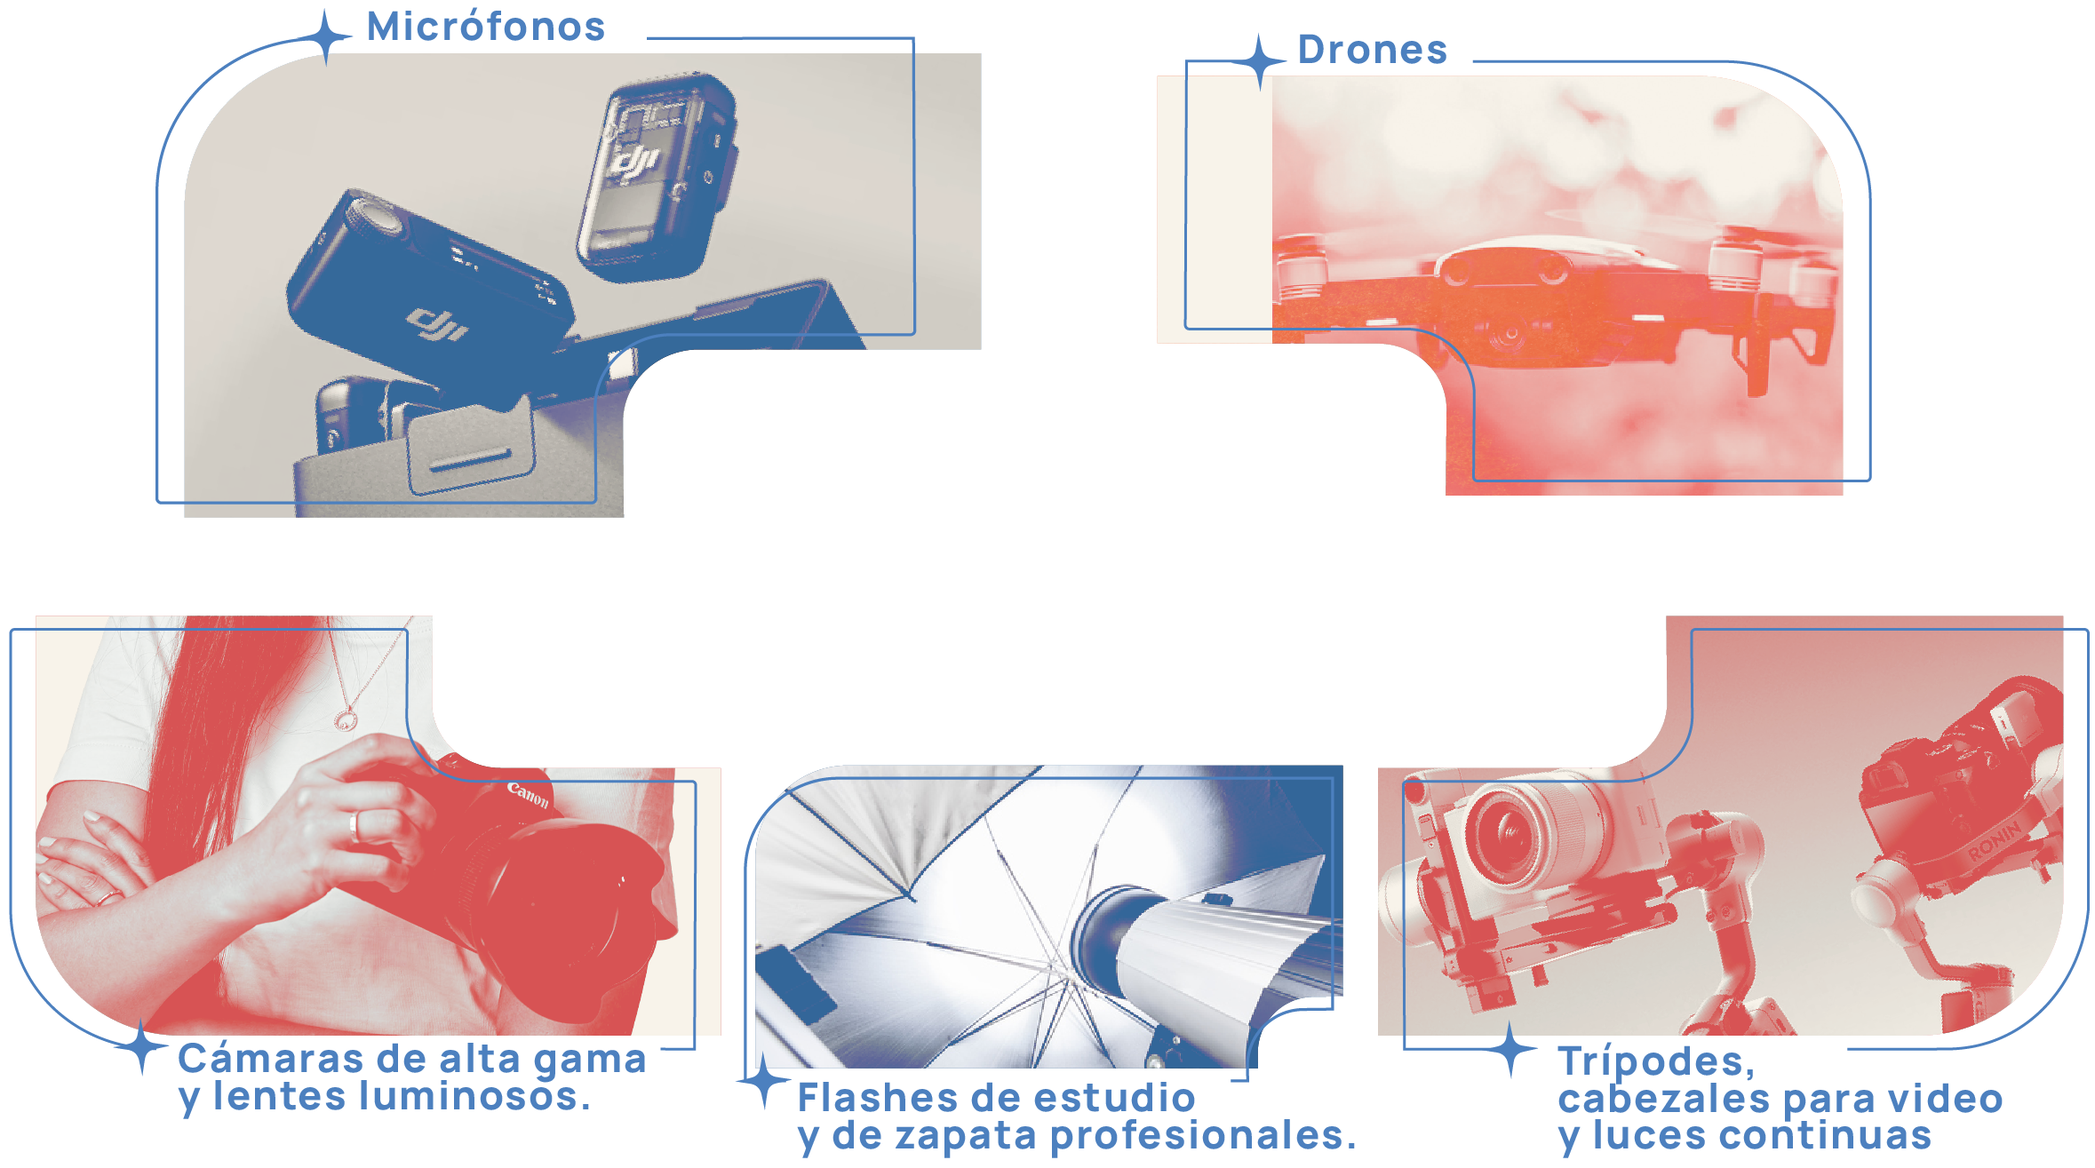
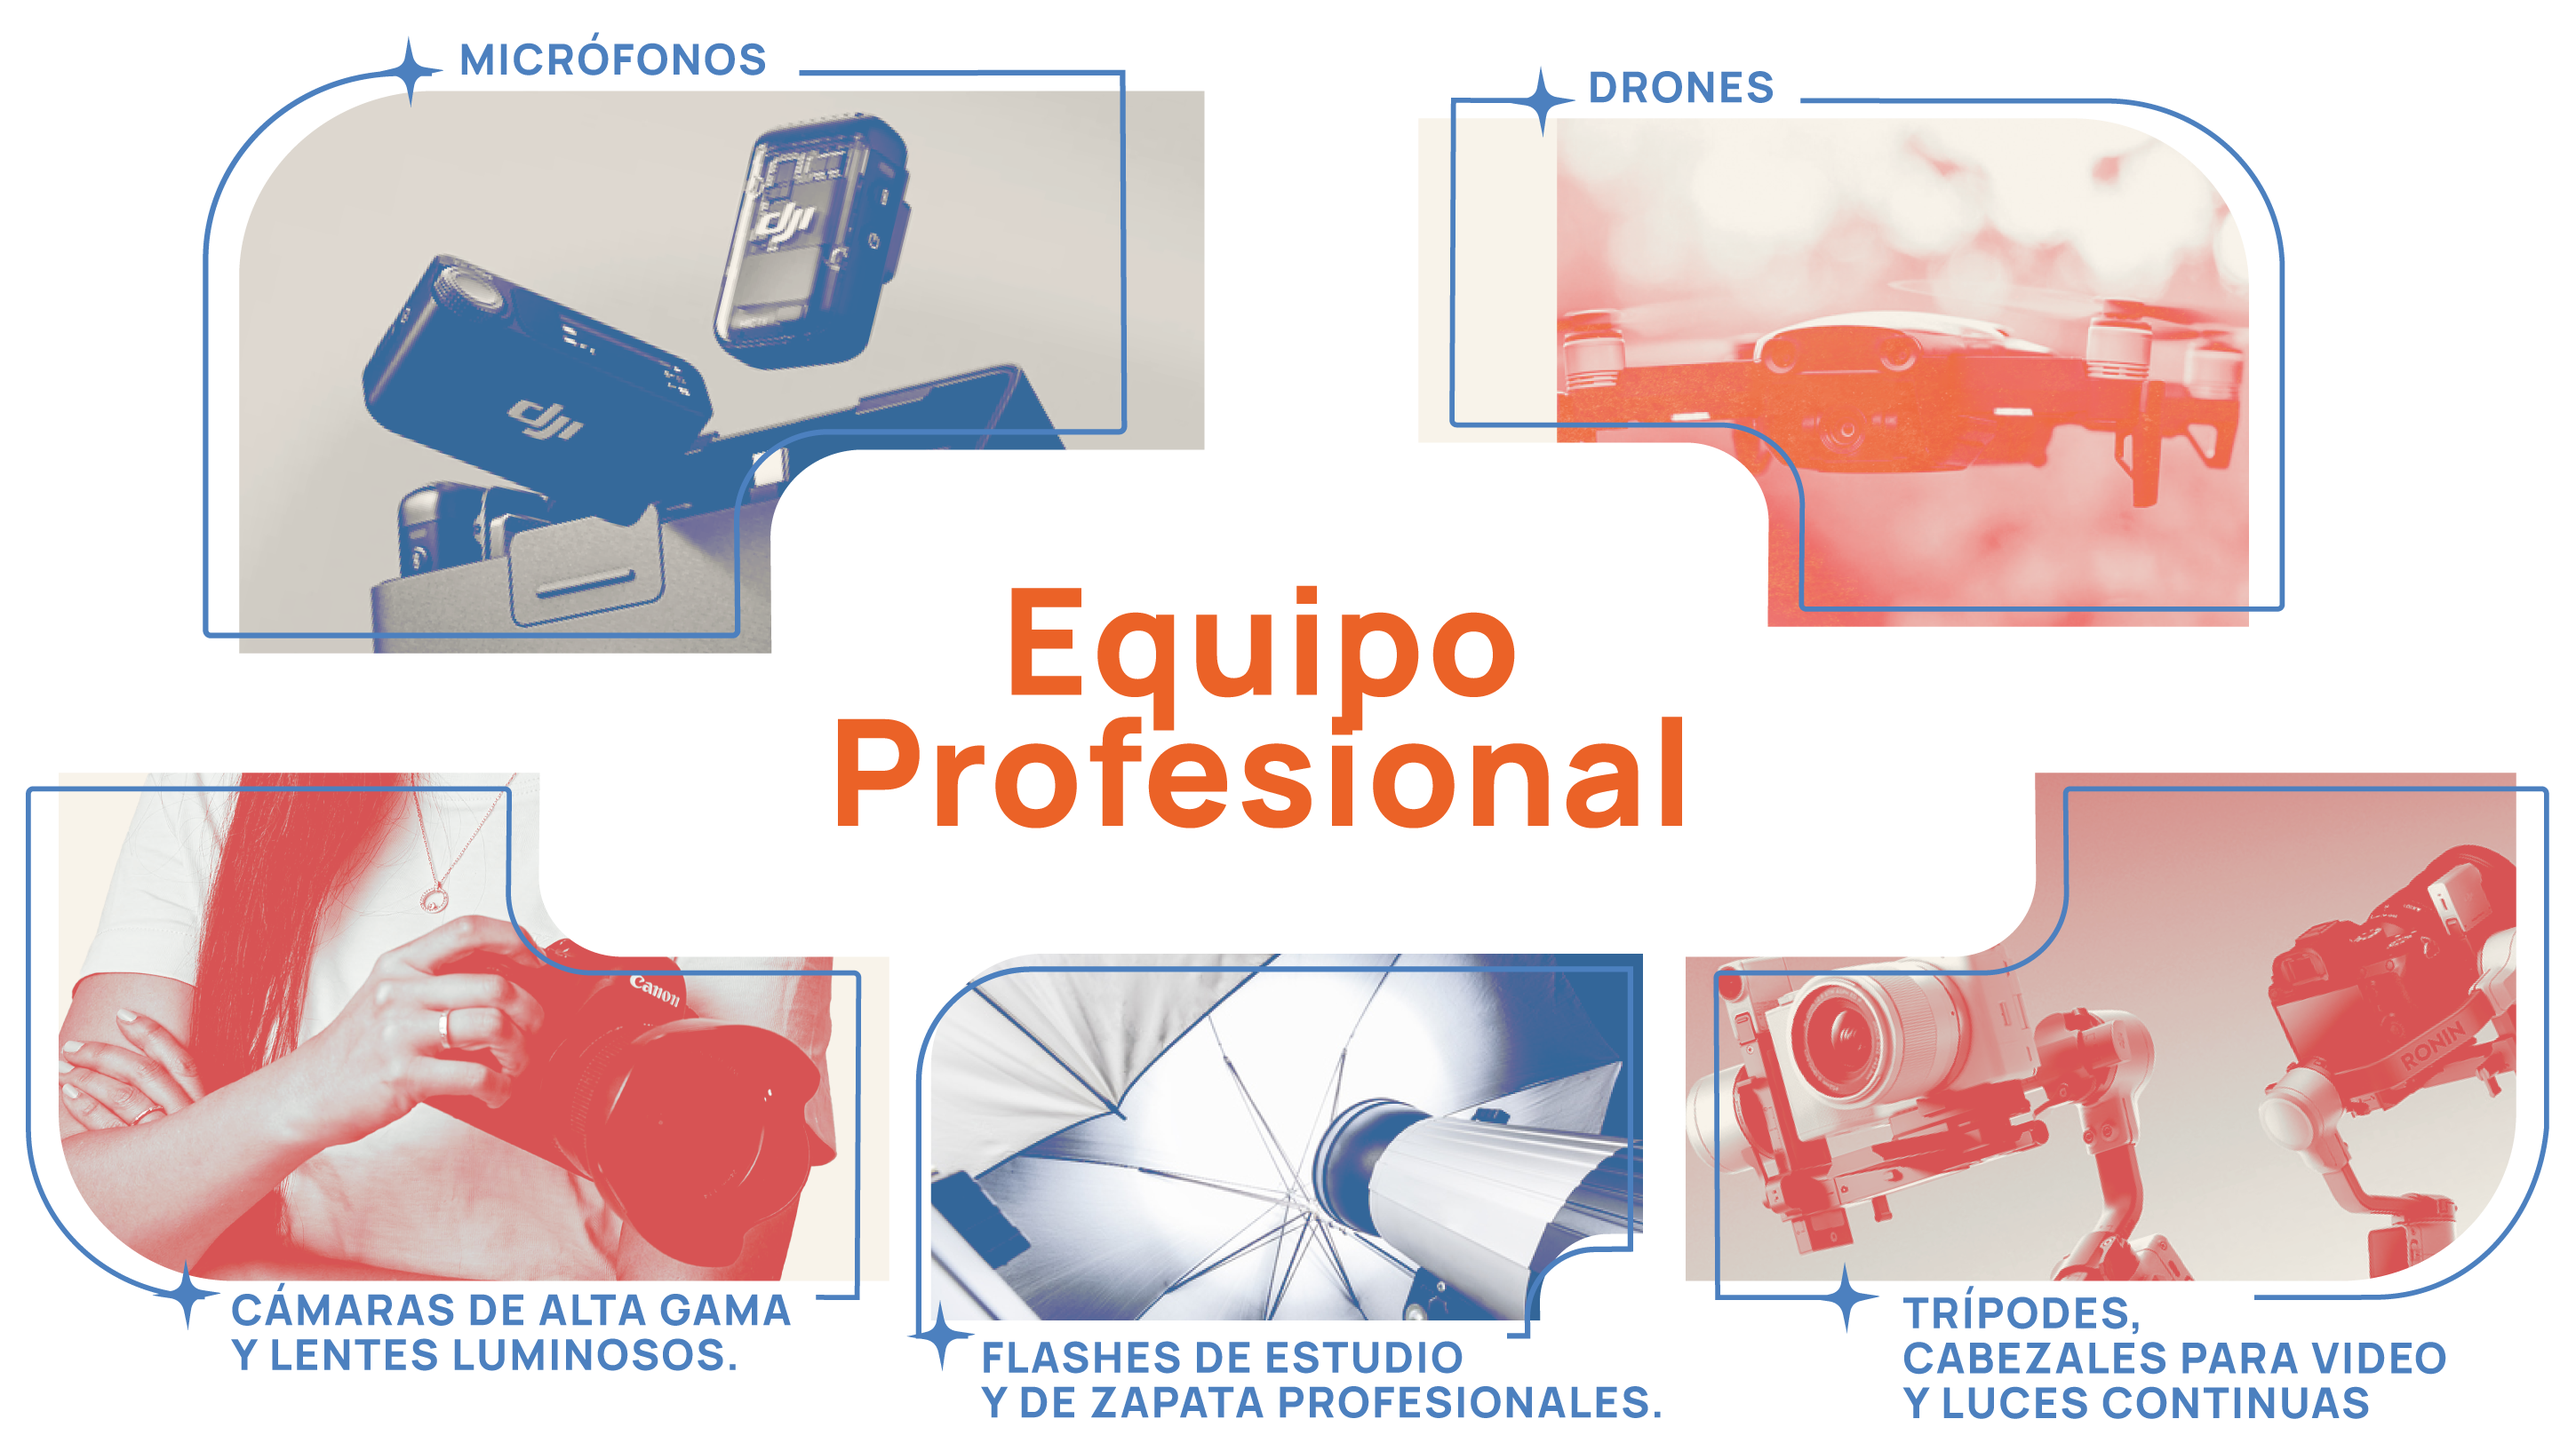
changed the PLACA_COMPLETA iamge

diff --git a/components/OurServices/Audiovisual/mobile/mobileHook.tsx b/components/OurServices/Audiovisual/mobile/mobileHook.tsx
@@ -29,15 +29,6 @@ const AudiovisualMobileHook = ({
       ${showMobileHook ? "py-8" : "py-0"}
       `}
       >
-        <div className="absolute mx-auto left-1/2 -translate-x-1/2 bottom-[43%]">
-          <p
-            className="text-[#EA6026] text-[1.5rem] sm:text-[2.8rem] 
-            md:text-[2.4rem]
-            font-bold text-center leading-6 sm:leading-12 md:leading-10"
-          >
-            Equipo<br></br> Profesional
-          </p>
-        </div>
         <Image
           src={imgHook.src}
           alt="Placa de equipo"
